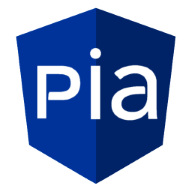
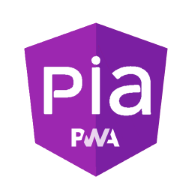
build(app): added pwa

diff --git a/src/index.html b/src/index.html
@@ -7,19 +7,21 @@
     <base href="./">
     <meta name="description" content="">
     <meta name="viewport" content="width=device-width, initial-scale=1">
-    <meta name="theme-color" content="#ffffff">
+    <meta name="theme-color" content="#1976d2">
 
     <link rel="apple-touch-icon" sizes="180x180" href="apple-touch-icon.png">
     <link rel="icon" type="image/png" sizes="32x32" href="favicon-32x32.png">
     <link rel="icon" type="image/png" sizes="16x16" href="favicon-16x16.png">
     <link rel="manifest" href="manifest.json">
     <link rel="mask-icon" href="safari-pinned-tab.svg" color="#da532c">
-  </head>
+<link rel="manifest" href="manifest.webmanifest">
+</head>
   <body>
     <app-root>
       <div class="cssload-container">
         <div class="cssload-speeding-wheel"></div>
       </div>
     </app-root>
-  </body>
+    <noscript>Please enable JavaScript to continue using this application.</noscript>
+</body>
 </html>
